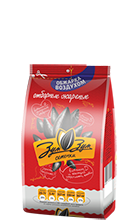
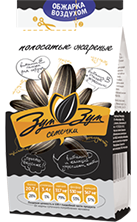
little things

diff --git a/index.html b/index.html
@@ -36,8 +36,7 @@
 				</h2>
 				<div class="pack">
 					<img src="./img/pack1.png" width="137" height="222" class="img" alt="">
-					<!--<img src="./img/pack1.png" width="137" height="222" class="img" alt="">
-					<img src="./img/pack1.png" width="137" height="222" class="img" alt="">-->
+					<!--<img src="./img/pack2.png" width="137" height="222" class="img" alt="">-->
 					<p>90 гр.</p>
 					<div>
 						<span class="step1"></span>
@@ -161,9 +160,18 @@
 						</li>
 					</ul>
 				</div>
-				<div class="video">
+				<!--<div class="video">
 					<h3>Видеоответ 26 июля</h3>
 					<div><a href="http://www.youtube.com/embed/MkHmiqMUOkA" class="zoom iframe"></a></div>
+				</div>-->
+				<div class="video">
+					<h3>Видеоответ 26 июля</h3>
+					<div>
+						<p>
+							<span>Здесь будет следующее</span>
+							<span>видеозадание</span>
+						</p>
+					</div>
 				</div>
 			</div>
 		</div>

diff --git a/css/style.css b/css/style.css
@@ -1033,6 +1033,29 @@ button::-moz-focus-inner {
 	height:207px;
 	background:url('../img/video_bg.png') no-repeat left top;
 }
+.video > div p {
+	overflow:hidden;
+	position:relative;
+	display:block;
+	width:284px;
+	height:207px;
+	color:#ffffff;
+	font-size:14px;
+	line-height:17px;
+	font-weight:normal;
+	margin:0;
+	background:url('../img/video_bg.png') no-repeat left top;
+}
+.video > div p span {
+	position:absolute;
+	left:48px;
+	top:107px;
+	width:180px;
+	text-align:center;
+}
+.video > div p span:first-child {
+	top:29px;
+}
 .video > div a:before {
 	content:'';
 	position:absolute;
@@ -1126,7 +1149,7 @@ button::-moz-focus-inner {
 	content:'';
 	position:absolute;
 	left:498px;
-	top:-46px;
+	top:-45px;
 	display:block;
 	width:141px;
 	height:89px;
